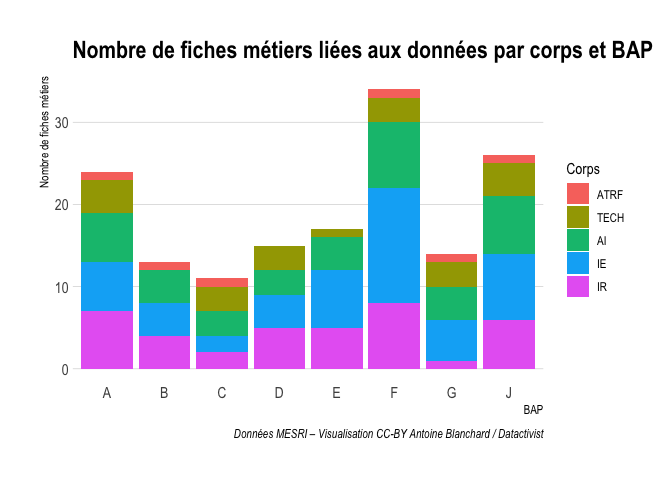
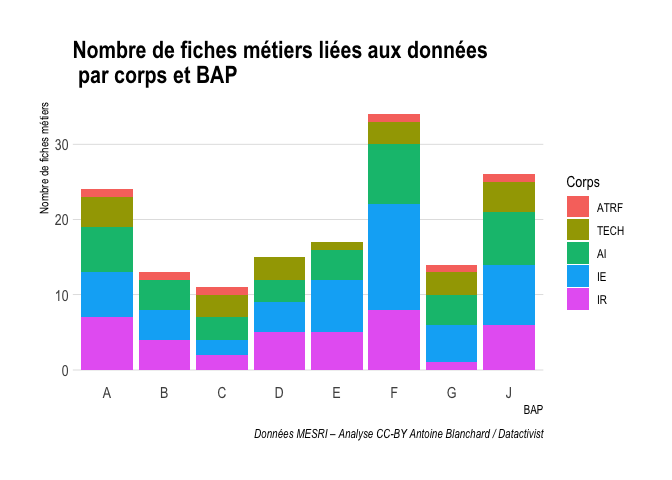
màj

diff --git a/Notebook.md b/Notebook.md
@@ -21,8 +21,6 @@ Antoine Blanchard
         corps](#fréquence-de-lexpression-données-par-bap-et-par-corps)
     -   [Liste des métiers IE de la BAP F liés aux
         données](#liste-des-métiers-ie-de-la-bap-f-liés-aux-données)
-    -   [Métiers qui concentrent le plus le terme
-        “données”](#métiers-qui-concentrent-le-plus-le-terme-données)
     -   [Dispersion des fiches métiers par
         corps](#dispersion-des-fiches-métiers-par-corps)
     -   [Métiers des BAP E, F, G, J où “données” apparaît comme facteur
@@ -89,9 +87,13 @@ denombrement <- data %>%
   filter(somme > 0) %>%
   arrange(desc(somme))
   
+# Classer les corps dans l'ordre hiérarchique
+ordre_corps <- c("ATRF", "TECH", "AI", "IE", "IR")
+
 data_filtered <- data %>%
   filter(Id %in% denombrement$Id) %>%
-  mutate(Id = as.character(Id)) %>%
+  mutate(Id = as.character(Id),
+         referens_cs=factor(referens_cs, levels = ordre_corps)) %>%
   left_join(denombrement %>% select(Id, somme), by = "Id") %>%
   arrange(desc(somme))
 ```
@@ -104,17 +106,15 @@ On trace la distribution des 154 fiches métiers selon le nombre de fois
 où apparaît le terme “données” :
 
 ``` r
-# Classer les corps dans l'ordre hiérarchique
-ordre_corps <- c("ATRF", "TECH", "AI", "IE", "IR")
-
 data_filtered %>%
     mutate(referens_id = fct_reorder(referens_id, -somme),
          referens_cs=factor(referens_cs, levels = ordre_corps)) %>%
-  ggplot(aes(x = referens_id, y = somme, color=referens_cs)) +
+  ggplot(aes(x = referens_id, y = somme, color=referens_cs, label=somme)) +
   geom_point() +
+    geom_text_repel(box.padding=0.5,max.overlaps = Inf, aes(label=ifelse(somme>=17,somme,'')), show.legend=FALSE) +
   labs(x="Rang", y="Nombre d'occurrences du terme ''données''", color="Corps",
        title="Distribution des fiches métiers",
-       caption="Données MESRI – Visualisation CC-BY Antoine Blanchard / Datactivist") +
+       caption="Données MESRI – Analyse CC-BY Antoine Blanchard / Datactivist") +
   theme_ipsum() +
   theme(axis.title.x=element_blank(),
         axis.text.x=element_blank(),
@@ -123,11 +123,64 @@ data_filtered %>%
 
 ![](Notebook_files/figure-gfm/distribution_corps-1.png)<!-- -->
 
-On observe une distribution fortement asymétrique.
+On observe une distribution fortement asymétrique, avec un décrochement
+à y=17.
+
+On étiquette les 8 métiers où le terme apparaît 17 fois ou plus :
+
+``` r
+data_filtered %>%
+    mutate(referens_id = fct_reorder(referens_id, -somme),
+         referens_cs=factor(referens_cs, levels = ordre_corps)) %>%
+  ggplot(aes(x = referens_id, y = somme, color=referens_cs, label=referens_intitule)) +
+  geom_point() +
+    geom_text_repel(size=2.5,box.padding=0.5,max.overlaps = Inf,force=8, aes(label=ifelse(somme>=17,referens_intitule,'')), show.legend=FALSE,
+    nudge_x           = 0.2,
+    direction         = "both",
+    segment.size      = 0.2,
+    segment.curvature = -0.1,
+    segment.inflect=FALSE) +
+  labs(x="Rang", y="Nombre d'occurrences du terme ''données''", color="Corps",
+       title="Distribution des fiches métiers",
+       caption="Données MESRI – Analyse CC-BY Antoine Blanchard / Datactivist") +
+  theme_ipsum() +
+  theme(axis.title.x=element_blank(),
+        axis.text.x=element_blank(),
+        axis.ticks.x=element_blank())
+```
+
+![](Notebook_files/figure-gfm/distribution_corps_avec_intitule-1.png)<!-- -->
+
+Et sous forme de table :
+
+``` r
+top_metiers <- data_filtered %>%
+  filter(somme >= 17) %>%
+  arrange(desc(somme)) %>%
+  select (referens_intitule, bap, referens_fap, referens_cs, somme, Id)
+
+kable(top_metiers, caption = "Métiers incluant au moins 17 fois le terme 'données'")
+```
+
+| referens\_intitule                                                             | bap                                                           | referens\_fap                                        | referens\_cs | somme | Id  |
+|:-------------------------------------------------------------------------------|:--------------------------------------------------------------|:-----------------------------------------------------|:-------------|------:|:----|
+| Ingénieur-e de recherche en production, traitement et analyse de données       | BAP D - Sciences Humaines et Sociales                         | Production, traitement et analyse des données        | IR           |    35 | 123 |
+| Ingénieur-e d’études en production, traitement, analyse de données et enquêtes | BAP D - Sciences Humaines et Sociales                         | Production, traitement et analyse des données        | IE           |    29 | 160 |
+| Technicien-ne en production, traitement de données et enquêtes                 | BAP D - Sciences Humaines et Sociales                         | Production, traitement et analyse des données        | TECH         |    25 | 101 |
+| Assistant-e ingénieur-e en production, traitement de données et enquêtes       | BAP D - Sciences Humaines et Sociales                         | Production, traitement et analyse des données        | AI           |    24 | 106 |
+| Assistant-e ingénieur-e biologiste en traitement de données                    | BAP A - Sciences du vivant, de la terre et de l’environnement | Biologie et santé, Sciences de la vie et de la terre | AI           |    23 | 125 |
+| Assistant-e statisticien-ne                                                    | BAP E - Informatique, Statistiques et Calcul scientifique     | Statistiques                                         | AI           |    21 | 161 |
+| Administrateur-trice de bases de données / Intégrateur d’applications          | BAP E - Informatique, Statistiques et Calcul scientifique     | Ingénierie technique et de production                | IE           |    20 | 116 |
+| Ingénieur-e statisticien-ne                                                    | BAP E - Informatique, Statistiques et Calcul scientifique     | Statistiques                                         | IE           |    17 | 215 |
+
+Métiers incluant au moins 17 fois le terme ‘données’
+
+On constate que ce sont majoritairement des métiers AI et IE,
+majoritairement en soutien à la recherche (BAP A et D).
 
 ## Occurrences de l’expression “données” par champ
 
-Dans quelles colonnes du jeu de données (variable) trouve-t-on le plus
+Dans quelles colonnes (variables) du jeu de données trouve-t-on le plus
 le terme “données” ?
 
 ``` r
@@ -141,7 +194,7 @@ denombrement %>%
   ggplot(aes(x=fct_reorder(variable, somme), y = somme)) +
   geom_col(aes(fill = variable), color = "grey50") +
   labs(x = "", y = "Nombre d'occurrences du terme ''données''",
-       caption="Données MESRI – Visualisation CC-BY Antoine Blanchard / Datactivist")+
+       caption="Données MESRI – Analyse CC-BY Antoine Blanchard / Datactivist")+
   coord_flip()+
   theme_ipsum() +
   theme(legend.position = "none")
@@ -171,28 +224,57 @@ intitule_filtered <- data_filtered %>%
   mutate(Id = as.character(Id),
          referens_cs=factor(referens_cs, levels = ordre_corps)) %>%
   left_join(data_filtered %>% select(Id, somme), by = "Id") %>%
-  select(referens_intitule, referens_metiers, bap, referens_fap, referens_cs) %>%
-  group_by(bap) %>%
-  arrange(referens_cs, .by_group = TRUE)
+  select(referens_intitule, referens_metiers, bap, referens_fap, referens_cs, Id) %>%
+  arrange(bap,referens_cs)
 
 kable(intitule_filtered, caption = "Métiers incluant le terme 'données' dans leur intitulé")
 ```
 
-| referens\_intitule                                                             | referens\_metiers                        | bap                                                                   | referens\_fap                                                                     | referens\_cs |
-|:-------------------------------------------------------------------------------|:-----------------------------------------|:----------------------------------------------------------------------|:----------------------------------------------------------------------------------|:-------------|
-| Assistant-e ingénieur-e biologiste en traitement de données                    |                                          | BAP A - Sciences du vivant, de la terre et de l’environnement         | Biologie et santé, Sciences de la vie et de la terre                              | AI           |
-| Ingénieur-e biologiste en traitement de données                                | epidémiologiste\|bio informaticien       | BAP A - Sciences du vivant, de la terre et de l’environnement         | Biologie et santé, Sciences de la vie et de la terre                              | IE           |
-| Ingénieur-e biologiste en analyse de données                                   | epidémiologiste\|bio informaticien       | BAP A - Sciences du vivant, de la terre et de l’environnement         | Biologie et santé, Sciences de la vie et de la terre                              | IR           |
-| Technicien-ne en production, traitement de données et enquêtes                 |                                          | BAP D - Sciences Humaines et Sociales                                 | Production, traitement et analyse des données                                     | TECH         |
-| Assistant-e ingénieur-e en production, traitement de données et enquêtes       |                                          | BAP D - Sciences Humaines et Sociales                                 | Production, traitement et analyse des données                                     | AI           |
-| Ingénieur-e d’études en production, traitement, analyse de données et enquêtes |                                          | BAP D - Sciences Humaines et Sociales                                 | Production, traitement et analyse des données                                     | IE           |
-| Ingénieur-e de recherche en production, traitement et analyse de données       |                                          | BAP D - Sciences Humaines et Sociales                                 | Production, traitement et analyse des données                                     | IR           |
-| Administrateur-trice de bases de données / Intégrateur d’applications          | administrateur de bases de données (dba) | BAP E - Informatique, Statistiques et Calcul scientifique             | Ingénierie technique et de production                                             | IE           |
-| Chargé-e de l’édition de corpus numériques                                     | éditeur de données scientifiques         | BAP F - Culture, Communication, Production et diffusion des savoirs   | Édition et graphisme                                                              | IE           |
-| Chargé-e du traitement des données scientifiques                               |                                          | BAP F - Culture, Communication, Production et diffusion des savoirs   | Information scientifique et technique, documentation et collections patrimoniales | IE           |
-| Gestionnaire de données et indicateurs patrimoniaux                            |                                          | BAP G - Patrimoine immobilier, Logistique, Restauration et Prévention | Patrimoine immobilier                                                             | AI           |
+| referens\_intitule                                                             | referens\_metiers                        | bap                                                                   | referens\_fap                                                                     | referens\_cs | Id  |
+|:-------------------------------------------------------------------------------|:-----------------------------------------|:----------------------------------------------------------------------|:----------------------------------------------------------------------------------|:-------------|:----|
+| Assistant-e ingénieur-e biologiste en traitement de données                    |                                          | BAP A - Sciences du vivant, de la terre et de l’environnement         | Biologie et santé, Sciences de la vie et de la terre                              | AI           | 125 |
+| Ingénieur-e biologiste en traitement de données                                | epidémiologiste\|bio informaticien       | BAP A - Sciences du vivant, de la terre et de l’environnement         | Biologie et santé, Sciences de la vie et de la terre                              | IE           | 230 |
+| Ingénieur-e biologiste en analyse de données                                   | epidémiologiste\|bio informaticien       | BAP A - Sciences du vivant, de la terre et de l’environnement         | Biologie et santé, Sciences de la vie et de la terre                              | IR           | 178 |
+| Technicien-ne en production, traitement de données et enquêtes                 |                                          | BAP D - Sciences Humaines et Sociales                                 | Production, traitement et analyse des données                                     | TECH         | 101 |
+| Assistant-e ingénieur-e en production, traitement de données et enquêtes       |                                          | BAP D - Sciences Humaines et Sociales                                 | Production, traitement et analyse des données                                     | AI           | 106 |
+| Ingénieur-e d’études en production, traitement, analyse de données et enquêtes |                                          | BAP D - Sciences Humaines et Sociales                                 | Production, traitement et analyse des données                                     | IE           | 160 |
+| Ingénieur-e de recherche en production, traitement et analyse de données       |                                          | BAP D - Sciences Humaines et Sociales                                 | Production, traitement et analyse des données                                     | IR           | 123 |
+| Administrateur-trice de bases de données / Intégrateur d’applications          | administrateur de bases de données (dba) | BAP E - Informatique, Statistiques et Calcul scientifique             | Ingénierie technique et de production                                             | IE           | 116 |
+| Chargé-e de l’édition de corpus numériques                                     | éditeur de données scientifiques         | BAP F - Culture, Communication, Production et diffusion des savoirs   | Édition et graphisme                                                              | IE           | 91  |
+| Chargé-e du traitement des données scientifiques                               |                                          | BAP F - Culture, Communication, Production et diffusion des savoirs   | Information scientifique et technique, documentation et collections patrimoniales | IE           | 146 |
+| Gestionnaire de données et indicateurs patrimoniaux                            |                                          | BAP G - Patrimoine immobilier, Logistique, Restauration et Prévention | Patrimoine immobilier                                                             | AI           | 80  |
 
 Métiers incluant le terme ‘données’ dans leur intitulé
+
+Ensemble, ces deux listes de métiers obtenues par deux méthodes
+différentes (que le terme apparaisse au moins 17 fois ou qu’il
+apparaisse dans l’intitulé) forment une liste de 13 métiers-types que
+l’on peut qualifier de “métiers des données”.
+
+``` r
+metiers_donnee <- full_join(intitule_filtered,top_metiers,by=c("referens_intitule","bap","referens_fap","referens_cs","Id"))  %>%
+  arrange(bap,referens_cs)
+
+kable(metiers_donnee, caption = "Métiers des données")
+```
+
+| referens\_intitule                                                             | referens\_metiers                        | bap                                                                   | referens\_fap                                                                     | referens\_cs | Id  | somme |
+|:-------------------------------------------------------------------------------|:-----------------------------------------|:----------------------------------------------------------------------|:----------------------------------------------------------------------------------|:-------------|:----|------:|
+| Assistant-e ingénieur-e biologiste en traitement de données                    |                                          | BAP A - Sciences du vivant, de la terre et de l’environnement         | Biologie et santé, Sciences de la vie et de la terre                              | AI           | 125 |    23 |
+| Ingénieur-e biologiste en traitement de données                                | epidémiologiste\|bio informaticien       | BAP A - Sciences du vivant, de la terre et de l’environnement         | Biologie et santé, Sciences de la vie et de la terre                              | IE           | 230 |    NA |
+| Ingénieur-e biologiste en analyse de données                                   | epidémiologiste\|bio informaticien       | BAP A - Sciences du vivant, de la terre et de l’environnement         | Biologie et santé, Sciences de la vie et de la terre                              | IR           | 178 |    NA |
+| Technicien-ne en production, traitement de données et enquêtes                 |                                          | BAP D - Sciences Humaines et Sociales                                 | Production, traitement et analyse des données                                     | TECH         | 101 |    25 |
+| Assistant-e ingénieur-e en production, traitement de données et enquêtes       |                                          | BAP D - Sciences Humaines et Sociales                                 | Production, traitement et analyse des données                                     | AI           | 106 |    24 |
+| Ingénieur-e d’études en production, traitement, analyse de données et enquêtes |                                          | BAP D - Sciences Humaines et Sociales                                 | Production, traitement et analyse des données                                     | IE           | 160 |    29 |
+| Ingénieur-e de recherche en production, traitement et analyse de données       |                                          | BAP D - Sciences Humaines et Sociales                                 | Production, traitement et analyse des données                                     | IR           | 123 |    35 |
+| Assistant-e statisticien-ne                                                    | NA                                       | BAP E - Informatique, Statistiques et Calcul scientifique             | Statistiques                                                                      | AI           | 161 |    21 |
+| Administrateur-trice de bases de données / Intégrateur d’applications          | administrateur de bases de données (dba) | BAP E - Informatique, Statistiques et Calcul scientifique             | Ingénierie technique et de production                                             | IE           | 116 |    20 |
+| Ingénieur-e statisticien-ne                                                    | NA                                       | BAP E - Informatique, Statistiques et Calcul scientifique             | Statistiques                                                                      | IE           | 215 |    17 |
+| Chargé-e de l’édition de corpus numériques                                     | éditeur de données scientifiques         | BAP F - Culture, Communication, Production et diffusion des savoirs   | Édition et graphisme                                                              | IE           | 91  |    NA |
+| Chargé-e du traitement des données scientifiques                               |                                          | BAP F - Culture, Communication, Production et diffusion des savoirs   | Information scientifique et technique, documentation et collections patrimoniales | IE           | 146 |    NA |
+| Gestionnaire de données et indicateurs patrimoniaux                            |                                          | BAP G - Patrimoine immobilier, Logistique, Restauration et Prévention | Patrimoine immobilier                                                             | AI           | 80  |    NA |
+
+Métiers des données
 
 ## Occurrences de l’expression “données” par BAP
 
@@ -217,7 +299,7 @@ BAP_filtered_pourcentage %>%
   geom_col(aes(fill = bap), color = "grey50") +
   labs(x = "", y = "Proportion",
        title="Proportion de fiches métiers liées aux ''données'' par BAP",
-    caption="Données MESRI – Visualisation CC-BY Antoine Blanchard / Datactivist") +
+    caption="Données MESRI – Analyse CC-BY Antoine Blanchard / Datactivist") +
   theme_ipsum() +
   coord_flip() +
   theme_ipsum(grid="X") +
@@ -257,8 +339,8 @@ corps_filtered_pourcentage %>%
   ggplot(aes(x = referens_cs, y = pourcentage_corps)) +
   geom_col(aes(fill = referens_cs), color = "grey50") +
   labs(x = "Corps", y = "Proportion",
-       title="Proportion de fiches métiers liées aux ''données'' par corps",
-      caption="Données MESRI – Visualisation CC-BY Antoine Blanchard / Datactivist") +
+       title="Proportion de fiches métiers liées aux ''données''\n par corps",
+      caption="Données MESRI – Analyse CC-BY Antoine Blanchard / Datactivist") +
   coord_flip() +
   theme_ipsum(grid="X") +
   theme(legend.position = "none") +
@@ -279,8 +361,8 @@ data_filtered %>%
   ggplot(aes(x = referens_bap_id, fill=referens_cs)) +
     geom_bar() +
       labs(x= "BAP", y = "Nombre de fiches métiers", fill="Corps",
-           title="Nombre de fiches métiers liées aux données par corps et BAP",
-         caption="Données MESRI – Visualisation CC-BY Antoine Blanchard / Datactivist") +
+           title="Nombre de fiches métiers liées aux données\n par corps et BAP",
+         caption="Données MESRI – Analyse CC-BY Antoine Blanchard / Datactivist") +
 theme_ipsum(grid="Y")
 ```
 
@@ -322,41 +404,12 @@ temp <- data_filtered %>%
 
 Métiers IE de la BAP F liés aux données
 
-## Métiers qui concentrent le plus le terme “données”
-
-On classe les métiers qui concentrent le plus le terme “données” et on
-affiche ceux où le terme apparaît 15 fois ou plus :
-
-``` r
-top_metiers <- data_filtered %>%
-  filter(somme >= 15) %>%
-  arrange(desc(somme)) %>%
-  select (referens_intitule, bap, referens_fap, referens_cs, somme)
-
-kable(top_metiers, caption = "Métiers incluant au moins 15 fois le terme 'données'")
-```
-
-| referens\_intitule                                                             | bap                                                           | referens\_fap                                        | referens\_cs | somme |
-|:-------------------------------------------------------------------------------|:--------------------------------------------------------------|:-----------------------------------------------------|:-------------|------:|
-| Ingénieur-e de recherche en production, traitement et analyse de données       | BAP D - Sciences Humaines et Sociales                         | Production, traitement et analyse des données        | IR           |    35 |
-| Ingénieur-e d’études en production, traitement, analyse de données et enquêtes | BAP D - Sciences Humaines et Sociales                         | Production, traitement et analyse des données        | IE           |    29 |
-| Technicien-ne en production, traitement de données et enquêtes                 | BAP D - Sciences Humaines et Sociales                         | Production, traitement et analyse des données        | TECH         |    25 |
-| Assistant-e ingénieur-e en production, traitement de données et enquêtes       | BAP D - Sciences Humaines et Sociales                         | Production, traitement et analyse des données        | AI           |    24 |
-| Assistant-e ingénieur-e biologiste en traitement de données                    | BAP A - Sciences du vivant, de la terre et de l’environnement | Biologie et santé, Sciences de la vie et de la terre | AI           |    23 |
-| Assistant-e statisticien-ne                                                    | BAP E - Informatique, Statistiques et Calcul scientifique     | Statistiques                                         | AI           |    21 |
-| Administrateur-trice de bases de données / Intégrateur d’applications          | BAP E - Informatique, Statistiques et Calcul scientifique     | Ingénierie technique et de production                | IE           |    20 |
-| Ingénieur-e statisticien-ne                                                    | BAP E - Informatique, Statistiques et Calcul scientifique     | Statistiques                                         | IE           |    17 |
-| Ingénieur-e d’études en sciences de l’information géographique                 | BAP D - Sciences Humaines et Sociales                         | Sciences de l’information géographique               | IE           |    15 |
-
-Métiers incluant au moins 15 fois le terme ‘données’
-
-On constate que ce sont beaucoup de métiers AI, beaucoup en soutien à la
-recherche. Question : on a vu que les corps IE et IR possèdent
-proportionnellement plus de métiers liés **aux** données, mais dans
-quels corps trouve-t-on les métiers **des** données (c’est-à-dire où le
-terme apparaît le plus fréquemment) ?
-
 ## Dispersion des fiches métiers par corps
+
+Question : on a vu que les corps IE et IR possèdent proportionnellement
+plus de métiers liés **aux** données, mais dans quels corps trouve-t-on
+les métiers **des** données (c’est-à-dire où le terme apparaît le plus
+fréquemment) ?
 
 On trace la dispersion des fiches métiers par corps selon les
 occurrences du mot “données”, avec une représentation par boxplot :
@@ -368,8 +421,8 @@ data_filtered %>%
     geom_boxplot()+
   geom_jitter(shape=16, position=position_jitter (0.2)) +
     labs(x= "Corps", y = "Nombre d'occurrences du terme ''données''", color="Corps",
-         title="Dispersion des fiches métiers liées aux données par corps",
-         caption="Données MESRI – Visualisation CC-BY Antoine Blanchard / Datactivist") +
+         title="Dispersion des fiches métiers liées aux données\n par corps",
+         caption="Données MESRI – Analyse CC-BY Antoine Blanchard / Datactivist") +
   theme_ipsum() +
     theme(legend.position = "none")
 ```
@@ -430,15 +483,15 @@ suppression_metiers <- denombrement %>%
   select(Id) %>%
   left_join(data_filtered, by = "Id") %>%
   select (referens_intitule, referens_intitule_precedent, bap, referens_fap, referens_cs) %>%
-  arrange(referens_cs) # Bug car ne s'ordonne pas par corps
+  arrange(referens_cs) 
 
 kable(suppression_metiers, caption = "Métiers dont l'ancien intitulé incluait le terme 'données' contrairement à l'intitulé actuel")
 ```
 
 | referens\_intitule                                                           | referens\_intitule\_precedent                                          | bap                                                       | referens\_fap                                                                | referens\_cs |
 |:-----------------------------------------------------------------------------|:-----------------------------------------------------------------------|:----------------------------------------------------------|:-----------------------------------------------------------------------------|:-------------|
-| Gestionnaire d’application / assistance support                              | Gestionnaire de base de données                                        | BAP E - Informatique, Statistiques et Calcul scientifique | Ingénierie des systèmes d’information                                        | AI           |
 | Technicien-ne d’exploitation, d’assistance et de traitement de l’information | Technicien d’exploitation, de maintenance et de traitement des données | BAP E - Informatique, Statistiques et Calcul scientifique | Ingénierie des systèmes d’information\|Ingénierie technique et de production | TECH         |
+| Gestionnaire d’application / assistance support                              | Gestionnaire de base de données                                        | BAP E - Informatique, Statistiques et Calcul scientifique | Ingénierie des systèmes d’information                                        | AI           |
 
 Métiers dont l’ancien intitulé incluait le terme ‘données’ contrairement
 à l’intitulé actuel
